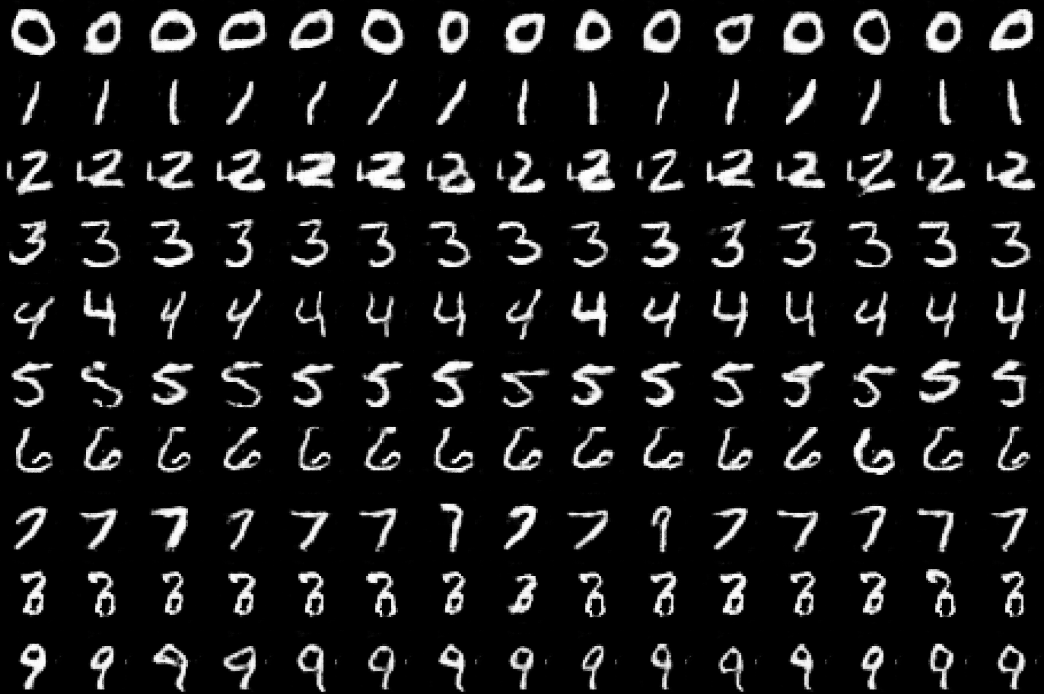
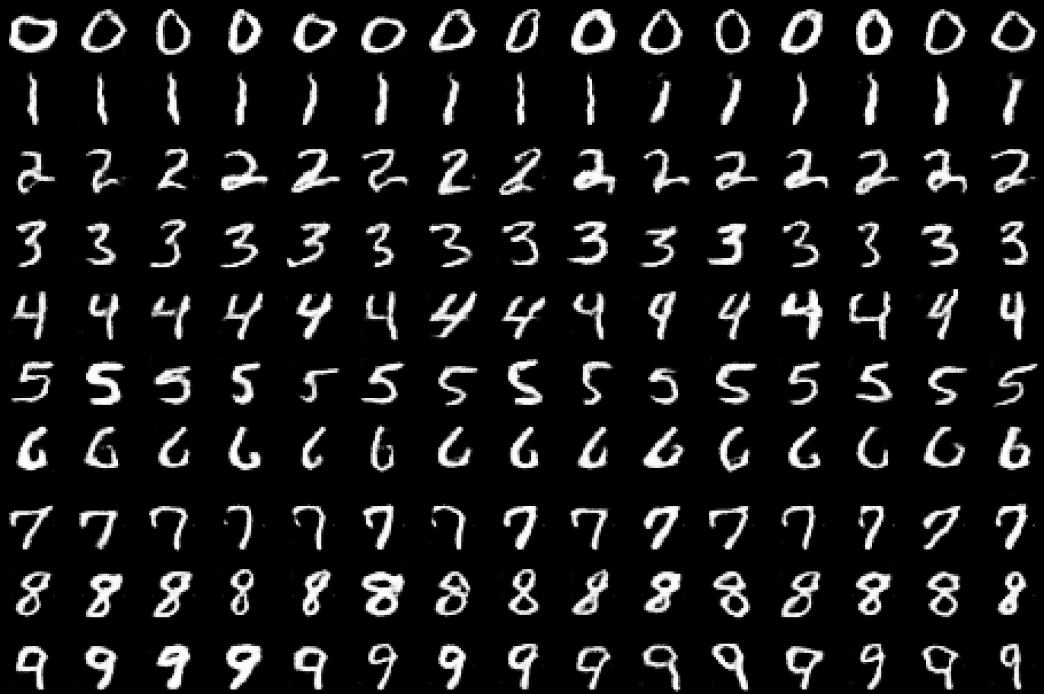
updated CondGAN results

diff --git a/models/condgan.py b/models/condgan.py
@@ -140,8 +140,8 @@ class CondGAN(nn.Module):
 		self.gen = CondGenerator(z_dim, cond_dim, image_channels, hidden_dim).to(self.device)
 		self.disc = CondDiscriminator(image_channels, hidden_dim, final_dim=final_dim, context_dim=cond_dim).to(self.device)
 		
-		self.disc_optim = optim.Adam(self.disc.parameters(), lr=0.0002, betas=(0.5, 0.999))
-		self.gen_optim 	= optim.Adam(self.gen.parameters(), lr=0.0002, betas=(0.5, 0.999))
+		self.disc_optim = optim.Adam(self.disc.parameters(), lr=0.0001, betas=(0.5, 0.999))
+		self.gen_optim 	= optim.Adam(self.gen.parameters(), lr=0.0001, betas=(0.5, 0.999))
 
 		self.loss = nn.BCELoss()
 
